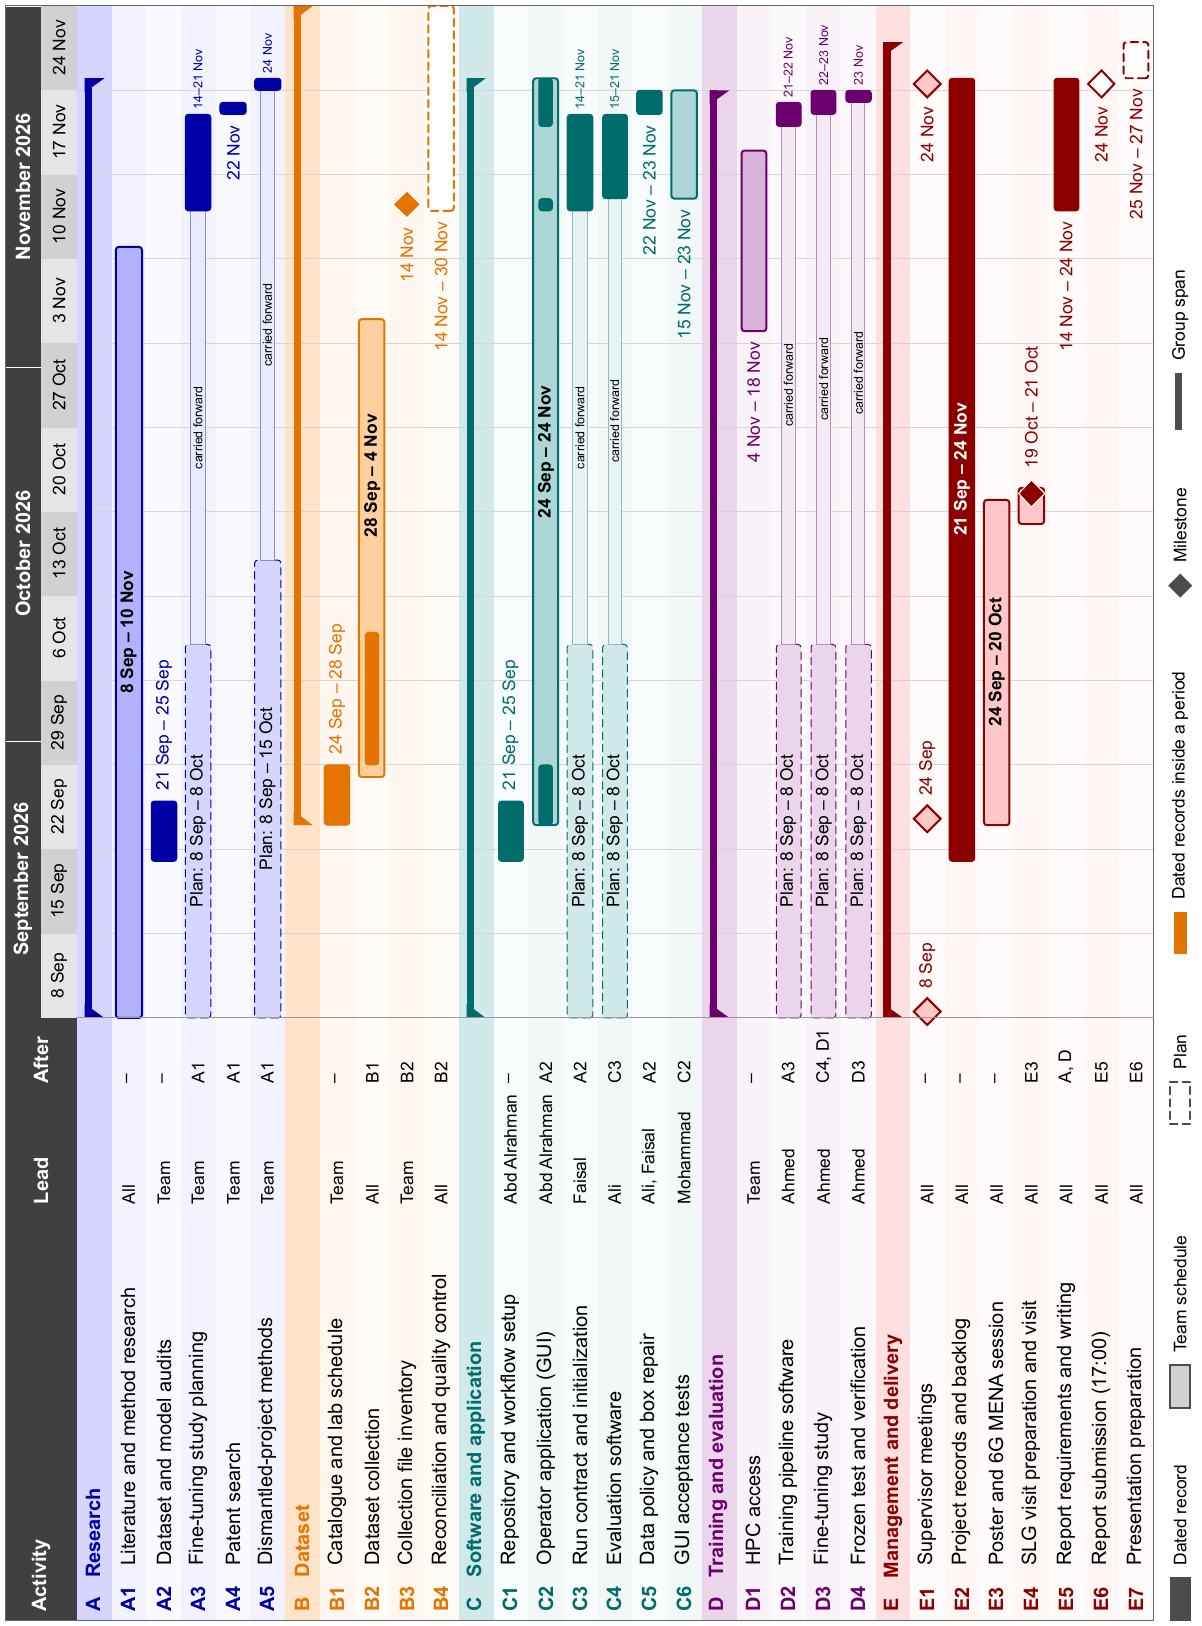
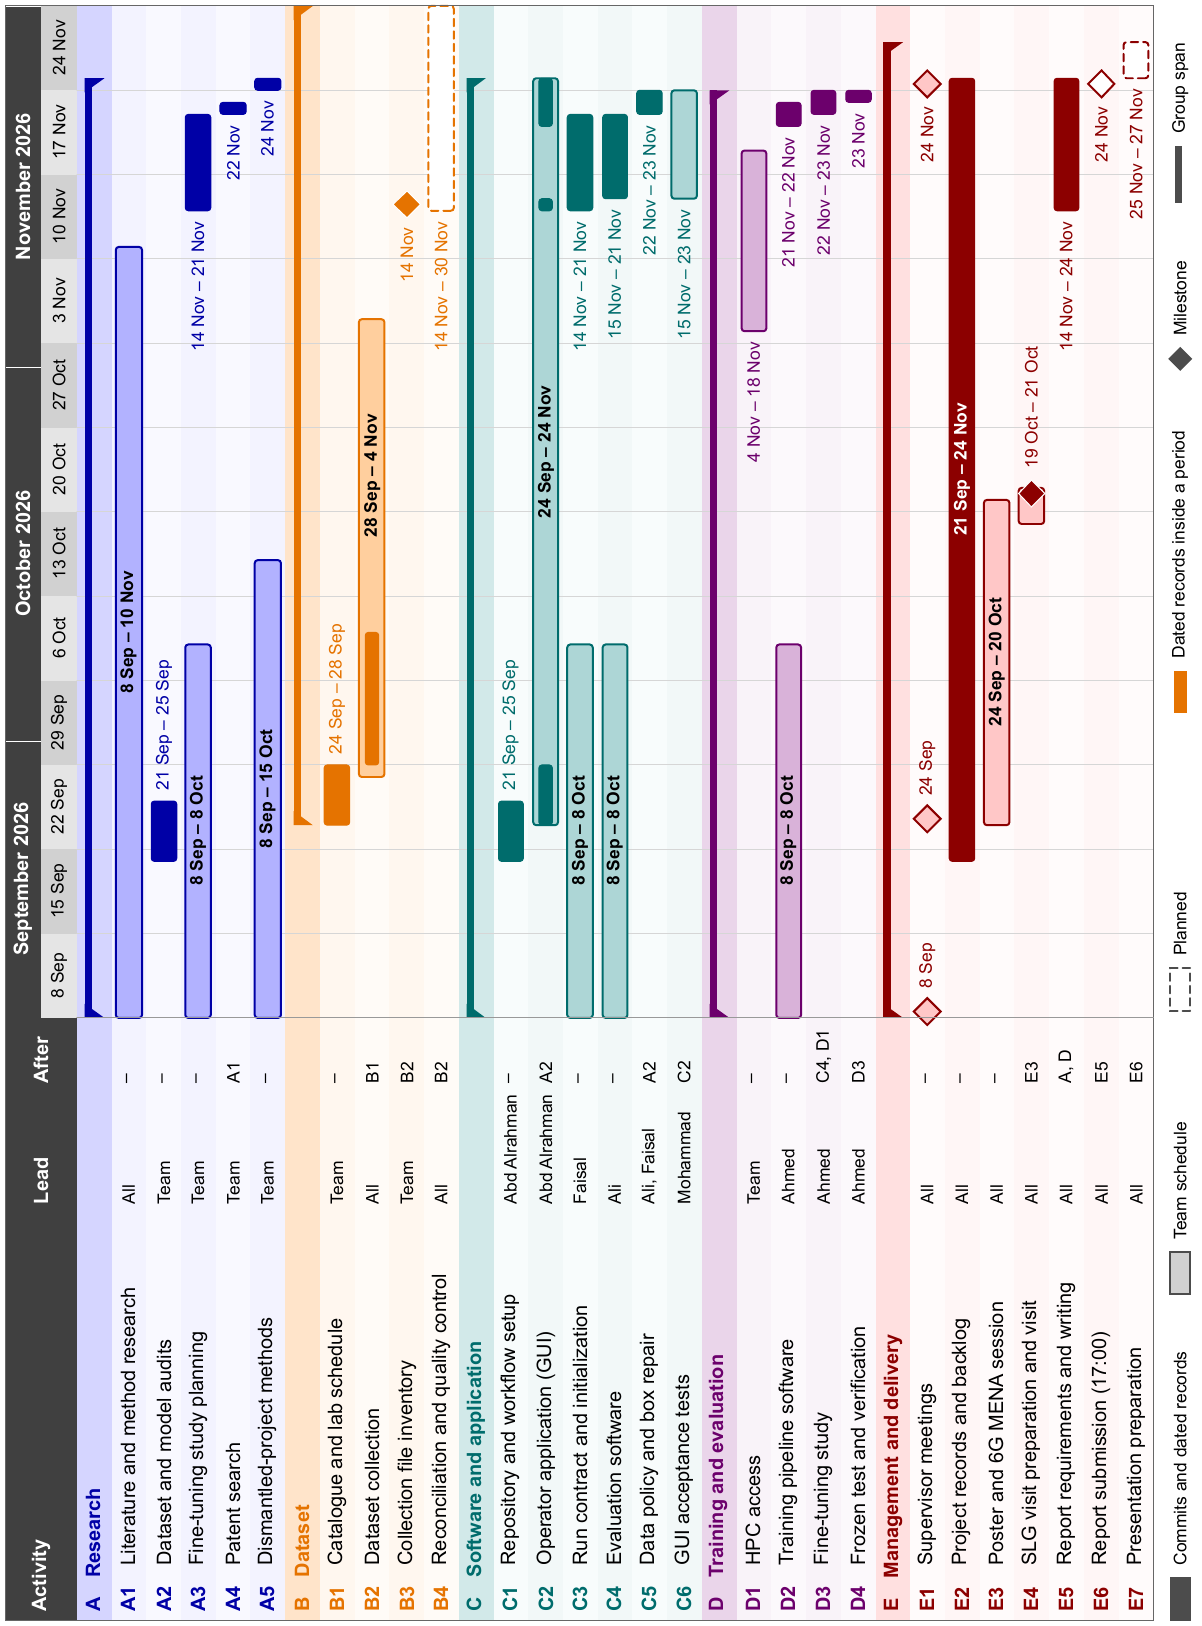
docs(report): team schedule periods in the Gantt chart

diff --git a/docs/report/figures/gantt.tex b/docs/report/figures/gantt.tex
@@ -96,25 +96,21 @@
 \draw[fill=blue!65!black,draw=blue!65!black,rounded corners=1.2pt] (2.21,-1.41) rectangle (3.06,-1.05);
 \node[anchor=west,font=\sffamily\scriptsize,text=blue!65!black] at (3.09,-1.23){21 Sep -- 25 Sep};
 \node[anchor=west,text=blue!65!black,font=\sffamily\footnotesize\bfseries] at (-8.5,-1.71){A3};\node[anchor=west] at (-7.85,-1.71){Fine-tuning study planning};
-\node[anchor=west,font=\sffamily\scriptsize] at (-2.75,-1.71){Team};\node[anchor=west,font=\sffamily\scriptsize] at (-1.05,-1.71){A1};
-\draw[fill=blue!30!white!55,draw=blue!65!black,densely dashed,rounded corners=1.2pt] (0.00,-1.89) rectangle (5.27,-1.53);
-\node[font=\sffamily\scriptsize] at (2.64,-1.71){Plan: 8 Sep -- 8 Oct};
-\draw[fill=blue!30!white!28,draw=blue!65!black!45] (5.27,-1.81) rectangle (11.39,-1.61);
-\node[font=\sffamily\tiny] at (8.33,-1.71){carried forward};
+\node[anchor=west,font=\sffamily\scriptsize] at (-2.75,-1.71){Team};\node[anchor=west,font=\sffamily\scriptsize] at (-1.05,-1.71){--};
+\draw[fill=blue!30,draw=blue!65!black,thick,rounded corners=1.2pt] (0.00,-1.89) rectangle (5.27,-1.53);
+\node[font=\sffamily\scriptsize\bfseries,text=black] at (2.64,-1.71){8 Sep -- 8 Oct};
 \draw[fill=blue!65!black,draw=blue!65!black,rounded corners=1.2pt] (11.39,-1.89) rectangle (12.75,-1.53);
-\node[anchor=west,font=\sffamily\tiny,text=blue!65!black] at (12.70,-1.71){14--21 Nov};
+\node[anchor=east,font=\sffamily\scriptsize,text=blue!65!black] at (11.36,-1.71){14 Nov -- 21 Nov};
 \node[anchor=west,text=blue!65!black,font=\sffamily\footnotesize\bfseries] at (-8.5,-2.21){A4};\node[anchor=west] at (-7.85,-2.21){Patent search};
 \node[anchor=west,font=\sffamily\scriptsize] at (-2.75,-2.21){Team};\node[anchor=west,font=\sffamily\scriptsize] at (-1.05,-2.21){A1};
 \draw[fill=blue!65!black,draw=blue!65!black,rounded corners=1.2pt] (12.75,-2.39) rectangle (12.92,-2.02);
 \node[anchor=east,font=\sffamily\scriptsize,text=blue!65!black] at (12.72,-2.21){22 Nov};
 \node[anchor=west,text=blue!65!black,font=\sffamily\footnotesize\bfseries] at (-8.5,-2.69){A5};\node[anchor=west] at (-7.85,-2.69){Dismantled-project methods};
-\node[anchor=west,font=\sffamily\scriptsize] at (-2.75,-2.69){Team};\node[anchor=west,font=\sffamily\scriptsize] at (-1.05,-2.69){A1};
-\draw[fill=blue!30!white!55,draw=blue!65!black,densely dashed,rounded corners=1.2pt] (0.00,-2.88) rectangle (6.46,-2.51);
-\node[font=\sffamily\scriptsize] at (3.23,-2.69){Plan: 8 Sep -- 15 Oct};
-\draw[fill=blue!30!white!28,draw=blue!65!black!45] (6.46,-2.79) rectangle (13.09,-2.59);
-\node[font=\sffamily\tiny] at (9.78,-2.69){carried forward};
+\node[anchor=west,font=\sffamily\scriptsize] at (-2.75,-2.69){Team};\node[anchor=west,font=\sffamily\scriptsize] at (-1.05,-2.69){--};
+\draw[fill=blue!30,draw=blue!65!black,thick,rounded corners=1.2pt] (0.00,-2.88) rectangle (6.46,-2.51);
+\node[font=\sffamily\scriptsize\bfseries,text=black] at (3.23,-2.69){8 Sep -- 15 Oct};
 \draw[fill=blue!65!black,draw=blue!65!black,rounded corners=1.2pt] (13.09,-2.88) rectangle (13.26,-2.51);
-\node[anchor=west,font=\sffamily\tiny,text=blue!65!black] at (13.21,-2.69){24 Nov};
+\node[anchor=east,font=\sffamily\scriptsize,text=blue!65!black] at (13.06,-2.69){24 Nov};
 \node[anchor=west,font=\sffamily\footnotesize\bfseries,text=orange!90!black] at (-8.5,-3.19){B\quad Dataset};
 \fill[orange!90!black] (2.72,-3.16) rectangle (14.28,-3.06);
 \fill[orange!90!black] (2.72,-3.06)--(2.92,-3.06)--(2.72,-3.33)--cycle;
@@ -152,21 +148,17 @@
 \draw[fill=teal!85!black,draw=teal!85!black,rounded corners=1.2pt] (11.39,-6.71) rectangle (11.56,-6.52);
 \draw[fill=teal!85!black,draw=teal!85!black,rounded corners=1.2pt] (12.58,-6.71) rectangle (13.26,-6.52);
 \node[anchor=west,text=teal!85!black,font=\sffamily\footnotesize\bfseries] at (-8.5,-7.10){C3};\node[anchor=west] at (-7.85,-7.10){Run contract and initialization};
-\node[anchor=west,font=\sffamily\scriptsize] at (-2.75,-7.10){Faisal};\node[anchor=west,font=\sffamily\scriptsize] at (-1.05,-7.10){A2};
-\draw[fill=teal!32!white!55,draw=teal!85!black,densely dashed,rounded corners=1.2pt] (0.00,-7.28) rectangle (5.27,-6.92);
-\node[font=\sffamily\scriptsize] at (2.64,-7.10){Plan: 8 Sep -- 8 Oct};
-\draw[fill=teal!32!white!28,draw=teal!85!black!45] (5.27,-7.20) rectangle (11.39,-7.00);
-\node[font=\sffamily\tiny] at (8.33,-7.10){carried forward};
+\node[anchor=west,font=\sffamily\scriptsize] at (-2.75,-7.10){Faisal};\node[anchor=west,font=\sffamily\scriptsize] at (-1.05,-7.10){--};
+\draw[fill=teal!32,draw=teal!85!black,thick,rounded corners=1.2pt] (0.00,-7.28) rectangle (5.27,-6.92);
+\node[font=\sffamily\scriptsize\bfseries,text=black] at (2.64,-7.10){8 Sep -- 8 Oct};
 \draw[fill=teal!85!black,draw=teal!85!black,rounded corners=1.2pt] (11.39,-7.28) rectangle (12.75,-6.92);
-\node[anchor=west,font=\sffamily\tiny,text=teal!85!black] at (12.70,-7.10){14--21 Nov};
+\node[anchor=east,font=\sffamily\scriptsize,text=teal!85!black] at (11.36,-7.10){14 Nov -- 21 Nov};
 \node[anchor=west,text=teal!85!black,font=\sffamily\footnotesize\bfseries] at (-8.5,-7.59){C4};\node[anchor=west] at (-7.85,-7.59){Evaluation software};
-\node[anchor=west,font=\sffamily\scriptsize] at (-2.75,-7.59){Ali};\node[anchor=west,font=\sffamily\scriptsize] at (-1.05,-7.59){C3};
-\draw[fill=teal!32!white!55,draw=teal!85!black,densely dashed,rounded corners=1.2pt] (0.00,-7.77) rectangle (5.27,-7.42);
-\node[font=\sffamily\scriptsize] at (2.64,-7.59){Plan: 8 Sep -- 8 Oct};
-\draw[fill=teal!32!white!28,draw=teal!85!black!45] (5.27,-7.69) rectangle (11.56,-7.50);
-\node[font=\sffamily\tiny] at (8.42,-7.59){carried forward};
+\node[anchor=west,font=\sffamily\scriptsize] at (-2.75,-7.59){Ali};\node[anchor=west,font=\sffamily\scriptsize] at (-1.05,-7.59){--};
+\draw[fill=teal!32,draw=teal!85!black,thick,rounded corners=1.2pt] (0.00,-7.77) rectangle (5.27,-7.42);
+\node[font=\sffamily\scriptsize\bfseries,text=black] at (2.64,-7.59){8 Sep -- 8 Oct};
 \draw[fill=teal!85!black,draw=teal!85!black,rounded corners=1.2pt] (11.56,-7.77) rectangle (12.75,-7.42);
-\node[anchor=west,font=\sffamily\tiny,text=teal!85!black] at (12.70,-7.59){15--21 Nov};
+\node[anchor=east,font=\sffamily\scriptsize,text=teal!85!black] at (11.53,-7.59){15 Nov -- 21 Nov};
 \node[anchor=west,text=teal!85!black,font=\sffamily\footnotesize\bfseries] at (-8.5,-8.08){C5};\node[anchor=west] at (-7.85,-8.08){Data policy and box repair};
 \node[anchor=west,font=\sffamily\scriptsize] at (-2.75,-8.08){Ali, Faisal};\node[anchor=west,font=\sffamily\scriptsize] at (-1.05,-8.08){A2};
 \draw[fill=teal!85!black,draw=teal!85!black,rounded corners=1.2pt] (12.75,-8.26) rectangle (13.09,-7.90);
@@ -184,29 +176,19 @@
 \draw[fill=violet!30,draw=violet!85!black,thick,rounded corners=1.2pt] (9.69,-9.73) rectangle (12.24,-9.38);
 \node[anchor=east,font=\sffamily\scriptsize,text=violet!85!black] at (9.66,-9.55){4 Nov -- 18 Nov};
 \node[anchor=west,text=violet!85!black,font=\sffamily\footnotesize\bfseries] at (-8.5,-10.04){D2};\node[anchor=west] at (-7.85,-10.04){Training pipeline software};
-\node[anchor=west,font=\sffamily\scriptsize] at (-2.75,-10.04){Ahmed};\node[anchor=west,font=\sffamily\scriptsize] at (-1.05,-10.04){A3};
-\draw[fill=violet!30!white!55,draw=violet!85!black,densely dashed,rounded corners=1.2pt] (0.00,-10.22) rectangle (5.27,-9.87);
-\node[font=\sffamily\scriptsize] at (2.64,-10.04){Plan: 8 Sep -- 8 Oct};
-\draw[fill=violet!30!white!28,draw=violet!85!black!45] (5.27,-10.14) rectangle (12.58,-9.95);
-\node[font=\sffamily\tiny] at (8.93,-10.04){carried forward};
+\node[anchor=west,font=\sffamily\scriptsize] at (-2.75,-10.04){Ahmed};\node[anchor=west,font=\sffamily\scriptsize] at (-1.05,-10.04){--};
+\draw[fill=violet!30,draw=violet!85!black,thick,rounded corners=1.2pt] (0.00,-10.22) rectangle (5.27,-9.87);
+\node[font=\sffamily\scriptsize\bfseries,text=black] at (2.64,-10.04){8 Sep -- 8 Oct};
 \draw[fill=violet!85!black,draw=violet!85!black,rounded corners=1.2pt] (12.58,-10.22) rectangle (12.92,-9.87);
-\node[anchor=west,font=\sffamily\tiny,text=violet!85!black] at (12.87,-10.04){21--22 Nov};
+\node[anchor=east,font=\sffamily\scriptsize,text=violet!85!black] at (12.55,-10.04){21 Nov -- 22 Nov};
 \node[anchor=west,text=violet!85!black,font=\sffamily\footnotesize\bfseries] at (-8.5,-10.54){D3};\node[anchor=west] at (-7.85,-10.54){Fine-tuning study};
 \node[anchor=west,font=\sffamily\scriptsize] at (-2.75,-10.54){Ahmed};\node[anchor=west,font=\sffamily\scriptsize] at (-1.05,-10.54){C4, D1};
-\draw[fill=violet!30!white!55,draw=violet!85!black,densely dashed,rounded corners=1.2pt] (0.00,-10.71) rectangle (5.27,-10.36);
-\node[font=\sffamily\scriptsize] at (2.64,-10.54){Plan: 8 Sep -- 8 Oct};
-\draw[fill=violet!30!white!28,draw=violet!85!black!45] (5.27,-10.63) rectangle (12.75,-10.44);
-\node[font=\sffamily\tiny] at (9.01,-10.54){carried forward};
 \draw[fill=violet!85!black,draw=violet!85!black,rounded corners=1.2pt] (12.75,-10.71) rectangle (13.09,-10.36);
-\node[anchor=west,font=\sffamily\tiny,text=violet!85!black] at (13.04,-10.54){22--23 Nov};
+\node[anchor=east,font=\sffamily\scriptsize,text=violet!85!black] at (12.72,-10.54){22 Nov -- 23 Nov};
 \node[anchor=west,text=violet!85!black,font=\sffamily\footnotesize\bfseries] at (-8.5,-11.03){D4};\node[anchor=west] at (-7.85,-11.03){Frozen test and verification};
 \node[anchor=west,font=\sffamily\scriptsize] at (-2.75,-11.03){Ahmed};\node[anchor=west,font=\sffamily\scriptsize] at (-1.05,-11.03){D3};
-\draw[fill=violet!30!white!55,draw=violet!85!black,densely dashed,rounded corners=1.2pt] (0.00,-11.21) rectangle (5.27,-10.85);
-\node[font=\sffamily\scriptsize] at (2.64,-11.03){Plan: 8 Sep -- 8 Oct};
-\draw[fill=violet!30!white!28,draw=violet!85!black!45] (5.27,-11.12) rectangle (12.92,-10.93);
-\node[font=\sffamily\tiny] at (9.10,-11.03){carried forward};
 \draw[fill=violet!85!black,draw=violet!85!black,rounded corners=1.2pt] (12.92,-11.21) rectangle (13.09,-10.85);
-\node[anchor=west,font=\sffamily\tiny,text=violet!85!black] at (13.04,-11.03){23 Nov};
+\node[anchor=east,font=\sffamily\scriptsize,text=violet!85!black] at (12.89,-11.03){23 Nov};
 \node[anchor=west,font=\sffamily\footnotesize\bfseries,text=red!55!black] at (-8.5,-11.52){E\quad Management and delivery};
 \fill[red!55!black] (0.00,-11.49) rectangle (13.77,-11.38);
 \fill[red!55!black] (0.00,-11.38)--(0.20,-11.38)--(0.00,-11.66)--cycle;
@@ -245,11 +227,11 @@
 \draw[fill=white,draw=red!55!black,thick,densely dashed,rounded corners=1.2pt] (13.26,-15.12) rectangle (13.77,-14.77);
 \node[anchor=east,font=\sffamily\scriptsize,text=red!55!black] at (13.23,-14.95){25 Nov -- 27 Nov};
 \draw[black!60] (-8.5,-15.19) rectangle (14.28,1.0);\draw[black!40] (0,0)--(0,-15.19);
-\draw[fill=black!70,draw=black!70] (-8.50,-15.71) rectangle (-7.90,-15.43);\node[anchor=west,font=\sffamily\scriptsize] at (-7.85,-15.57){Dated record};
-\draw[fill=black!18,draw=black!70,thick] (-5.50,-15.71) rectangle (-4.90,-15.43);\node[anchor=west,font=\sffamily\scriptsize] at (-4.85,-15.57){Team schedule};
-\draw[fill=white,draw=black!70,thick,densely dashed] (-1.50,-15.71) rectangle (-0.90,-15.43);\node[anchor=west,font=\sffamily\scriptsize] at (-0.85,-15.57){Plan};
-\fill[orange!90!black] (0.90,-15.66) rectangle (1.50,-15.48);\node[anchor=west,font=\sffamily\scriptsize] at (1.55,-15.57){Dated records inside a period};
-\fill[black!70] (6.10,-15.40)--(6.27,-15.57)--(6.10,-15.74)--(5.93,-15.57)--cycle;\node[anchor=west,font=\sffamily\scriptsize] at (6.30,-15.57){Milestone};
-\fill[black!70] (8.30,-15.59) rectangle (9.10,-15.49);\node[anchor=west,font=\sffamily\scriptsize] at (9.15,-15.57){Group span};
+\draw[fill=black!70,draw=black!70] (-8.50,-15.71) rectangle (-7.90,-15.43);\node[anchor=west,font=\sffamily\scriptsize] at (-7.85,-15.57){Commits and dated records};
+\draw[fill=black!18,draw=black!70,thick] (-3.90,-15.71) rectangle (-3.30,-15.43);\node[anchor=west,font=\sffamily\scriptsize] at (-3.25,-15.57){Team schedule};
+\draw[fill=white,draw=black!70,thick,densely dashed] (0.10,-15.71) rectangle (0.70,-15.43);\node[anchor=west,font=\sffamily\scriptsize] at (0.75,-15.57){Planned};
+\fill[orange!90!black] (4.30,-15.66) rectangle (4.90,-15.48);\node[anchor=west,font=\sffamily\scriptsize] at (4.95,-15.57){Dated records inside a period};
+\fill[black!70] (9.30,-15.40)--(9.47,-15.57)--(9.30,-15.74)--(9.13,-15.57)--cycle;\node[anchor=west,font=\sffamily\scriptsize] at (9.50,-15.57){Milestone};
+\fill[black!70] (11.50,-15.59) rectangle (12.30,-15.49);\node[anchor=west,font=\sffamily\scriptsize] at (12.35,-15.57){Group span};
 \end{tikzpicture}}
 \end{document}

diff --git a/docs/report/chapters/appendices.tex b/docs/report/chapters/appendices.tex
@@ -11,18 +11,17 @@ collection period (28~September to 4~November) follow the team schedule. The sca
 files, dated 29~September to 9~October, are marked inside
 the collection bar. Work on the operator application started after the second advisor meeting
 on 24~September and continued to the final walkthrough; its dated repository and test records
-are marked inside the bar. The plan bars follow the
-first advisor meeting of 8~September, which set the single-scan prototype (training, testing
-and documentation) for 8~October and the distributed workstream for 15~October. The second
-meeting of 24~September put the dataset collection and the operator application first.
-Cluster access followed in November, and the single-scan software and study were completed
-then.
+are marked inside the bar. The early bars of
+the planning, software and method activities follow the project plan of 8~September, which set
+the single-scan workstream for 8~October and the distributed workstream for 15~October. The
+second meeting of 24~September put the dataset collection and the operator application first.
+Dark bars show the commits and dated records; the cluster runs followed the HPC access in November.
 
 \begin{figure}[p]\centering
 \includegraphics[width=\textwidth,height=0.87\textheight,keepaspectratio]{gantt.png}
 \caption{Gantt chart of SDP~I, September to November 2026.}
 \label{fig:gantt}
-\floatnote{Drawn sideways. ``After'' gives the preceding activity. Dashed bars are the plan; thin bars show tasks carried forward in the schedule; solid and pale bars are the work done. Dated records are repository states, files, run records or, for the SLG visit, the team; team schedule bars are stated by the team.}
+\floatnote{Drawn sideways. ``After'' gives the preceding activity. Dated records are repository states, files, run records or, for the SLG visit, the team; team schedule bars are stated by the team.}
 \end{figure}
 
 Table~\ref{tab:dependencies} lists the dependencies of the final SDP~I deliverables
